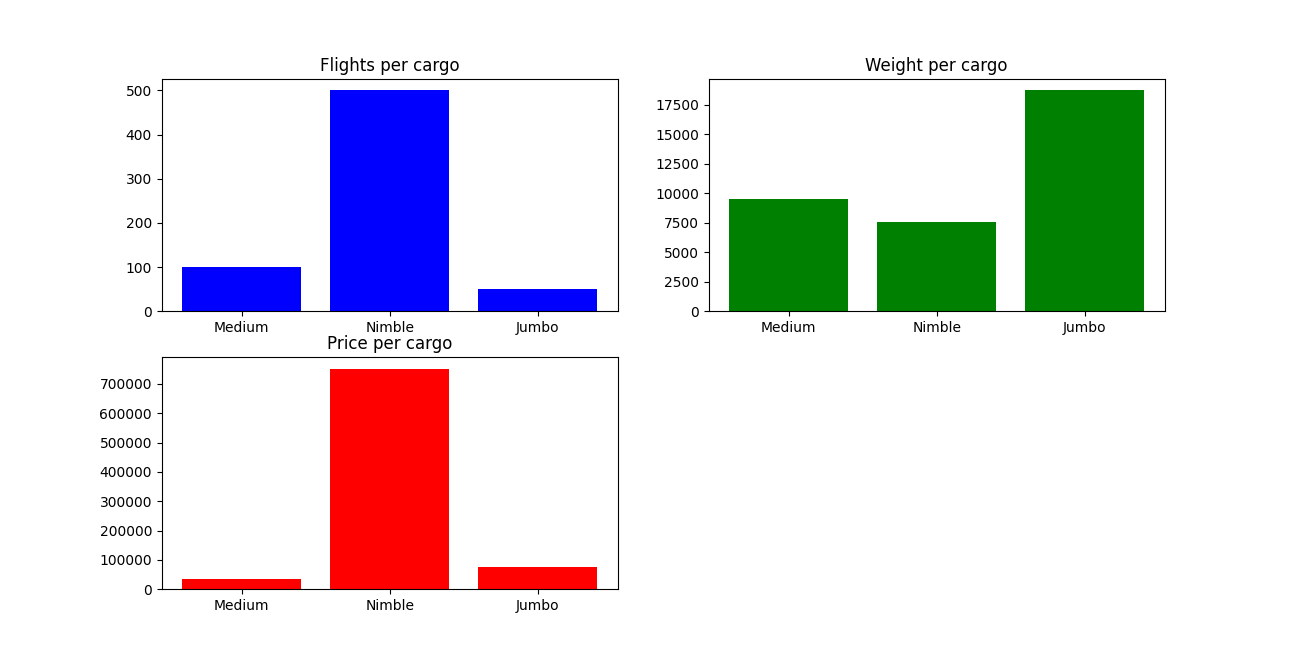
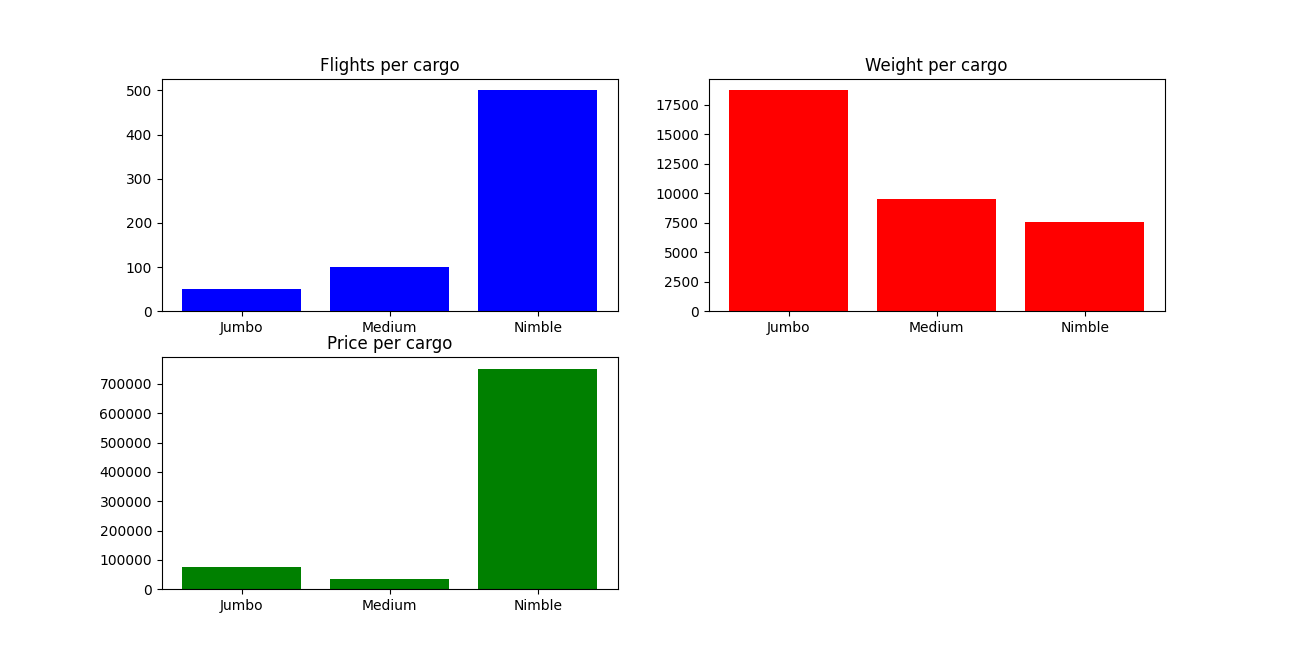
Fixed issues

diff --git a/ep3.py b/ep3.py
@@ -14,50 +14,27 @@ with open('results_ejudge.html', 'r') as html:
     tbl = re.sub('<a.*?href="(.*?)">(.*?)</a>', '\\1 \\2', html_text)
     results = pd.read_html(tbl)[0]
 
+logins = logins.rename(columns={'login': 'User'})
 
-facult_groups = defaultdict(list)
-inf_groups = defaultdict(list)
-clever_facult_groups = set()
-clever_inf_groups = set()
-for index, i in results.iterrows():
-    user = i['User']
-    solved = i['Solved']
-    G = i['G']
-    H = i['H']
-
-    if not logins[logins['login'] == user].empty:
-        facult_group = logins[logins['login'] == user]['group_faculty'].tolist()[0]
-        inf_group = logins[logins['login'] == user]['group_out'].tolist()[0]
-
-        facult_groups[facult_group].append(solved)
-        inf_groups[inf_group].append(solved)
-
-        if (pd.notna(G) and G > 10) or (pd.notna(H) and H > 10):
-            clever_facult_groups.add(facult_group)
-            clever_inf_groups.add(inf_group)
-
-
-facult_groups_bars = []
-facult_groups_data = []
-inf_groups_bars = []
-inf_groups_data = []
-for i in facult_groups.items():
-    facult_groups_bars.append(i[0])
-    facult_groups_data.append(sum(i[1]) / len(i[1]))
-
-for i in inf_groups.items():
-    inf_groups_bars.append(i[0])
-    inf_groups_data.append(sum(i[1]) / len(i[1]))
-
-print("Группы, студенты которых прошли более 1 теста в G и H:")
-print(*clever_facult_groups, sep='\n')
-print("Группы по информатике, студенты которых прошли более 1 теста в G и H:")
-print(*clever_inf_groups, sep='\n')
+data = results.merge(logins)
+mean_f_data = data.groupby('group_faculty').mean()
 
 fig, axs = plt.subplots(2, 1)
 axs[0].set_title("Solved per faculty group")
-axs[0].bar(facult_groups_bars, facult_groups_data, color='blue')
+axs[0].bar(mean_f_data.index[:], mean_f_data['Solved'], color='blue')
+
+mean_out_data = data.groupby('group_out').mean()
 
 axs[1].set_title("Solved per informatics group")
-axs[1].bar(inf_groups_bars, inf_groups_data, color='red')
+axs[1].bar(mean_out_data.index[:], mean_out_data['Solved'], color='red')
+
+clever_students = data[(data['G'] > 10) | (data['H'] > 10)]
+clever_facult_groups = clever_students.groupby('group_faculty').count().index[:]
+clever_inf_groups = clever_students.groupby('group_out').count().index[:]
+
+print("Группы, студенты которых прошли более 1 теста в G и H:")
+print(*clever_facult_groups, sep=', ')
+print("Группы по информатике, студенты которых прошли более 1 теста в G и H:")
+print(*clever_inf_groups, sep=', ')
+
 plt.show()

diff --git a/ep2.py b/ep2.py
@@ -4,36 +4,24 @@ import numpy as np
 from inting import inting
 import matplotlib.pyplot as plt
 
-
 with open('flights.csv', 'r') as f:
     reader = np.array(list((csv.reader(f, delimiter=',', quotechar='\"'))))
-    df = pd.DataFrame(reader[1:], columns=reader[0]).filter(items=['CARGO', 'PRICE', 'WEIGHT']).applymap(inting)
-
-    cargos = set()
-    for ind, i in df.iterrows():
-        cargos.add(i['CARGO'])
-
-    cargos = list(cargos)
-    flights = []
-    prises = []
-    weights = []
-    for i in cargos:
-        cargo_is_concr = df[df['CARGO'] == i]
-        flights.append(len(cargo_is_concr))
-        prises.append(cargo_is_concr['PRICE'].sum())
-        weights.append(cargo_is_concr['WEIGHT'].sum())
+    df = pd.DataFrame(reader[1:], columns=reader[0]).filter(items=['CARGO', 'PRICE', 'WEIGHT'])
+    df['PRICE'] = pd.to_numeric(df['PRICE'])
+    df['WEIGHT'] = pd.to_numeric(df['WEIGHT'])
+    number = [1 for i in range(len(df))]
+    df['NUMBER'] = number
+    df = df.groupby('CARGO').sum()
 
     fig, axs = plt.subplots(2, 2)
     axs[0, 0].set_title("Flights per cargo")
-    axs[0, 0].bar(cargos, flights, color='blue')
+    axs[0, 0].bar(df.index[:], df['NUMBER'], color='blue')
 
     axs[1, 0].set_title("Price per cargo")
-    axs[1, 0].bar(cargos, prises, color='red')
+    axs[1, 0].bar(df.index[:], df['PRICE'], color='green')
 
     axs[0, 1].set_title("Weight per cargo")
-    axs[0, 1].bar(cargos, weights, color='green')
+    axs[0, 1].bar(df.index[:], df['WEIGHT'], color='red')
 
     axs[1, 1].axis('off')
     plt.show()
-
-

diff --git a/ep1.py b/ep1.py
@@ -6,8 +6,9 @@ from inting import inting
 
 with open('transactions.csv', 'r') as f:
     reader = np.array(list((csv.reader(f, delimiter=',', quotechar='\"'))))
-    df = pd.DataFrame(reader[1:], columns=reader[0]).filter(items=['CONTRACTOR', 'STATUS', 'SUM']).applymap(inting)
-    df_is_ok = df[df['STATUS'] == "OK"].sort_values(by=['SUM']).iloc[-3:, 0:].filter(items=['CONTRACTOR', 'SUM'])
+    df = pd.DataFrame(reader[1:], columns=reader[0]).filter(items=['CONTRACTOR', 'STATUS', 'SUM'])
+    df['SUM'] = pd.to_numeric(df['SUM'])
+    df_is_ok = df[df['STATUS'] == "OK"].sort_values(by=['SUM']).tail(3).filter(items=['CONTRACTOR', 'SUM'])
     print("3 самых крупных платежа:")
     print(df_is_ok)
 
